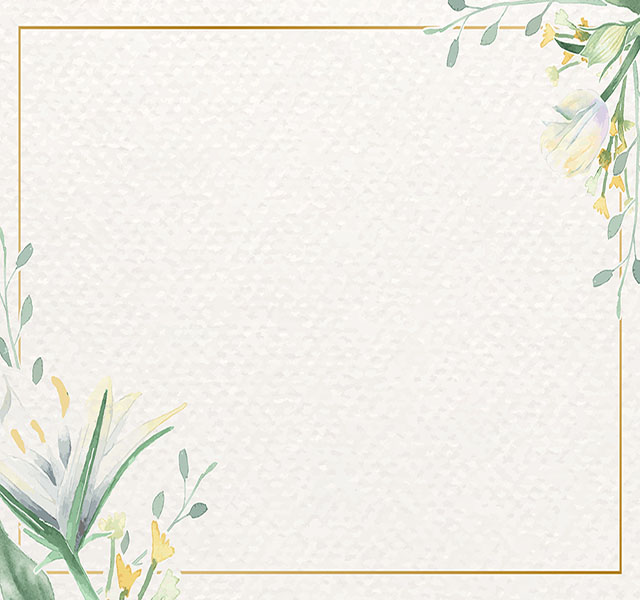
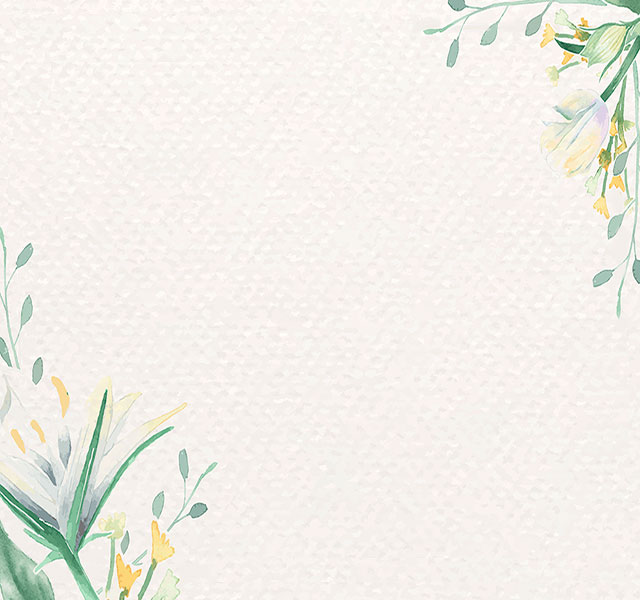
.

diff --git a/index.htm b/index.htm
@@ -31,31 +31,31 @@
 </head>
 <body>
 
-  <div class="container">
-    <div class="child">
+<!-- 첫화면 섹션-->
+<div class="container">
+  <div class="child">
 
-      <div class="my_bg sm:text-center" style="overflow : hidden;">
-        <section class="scroll-section borderimg2" id="section2" style="height : 100vh;"> 
-          <div class="mx-auto" style="margin: 0 auto;"> 
-            
-              <p class="great-vibes-regular" style="font-size: 60px;  color: rgba(234, 240, 246, 0.8); margin-top: -80%; text-align: center; line-height: 120%;">We're <br />getting married </p>
-            <div class="top_main">
-              정진욱 ❤ 구지선
+    <div class="my_bg sm:text-center" style="overflow : hidden;">
+      <section class="scroll-section" id="section2" style="height : 100vh;"> 
+        <div class="mx-auto" style="margin: 0 auto;"> 
+          
+            <p class="great-vibes-regular" style="font-size: 60px;  color: rgba(234, 240, 246, 0.8); margin-top: -80%; text-align: center; line-height: 120%;">
+              We're <br />getting married </p>
+              <div class="top_main">
+                정진욱 ❤ 구지선
               </div>
               <div class="mx-auto top_sub" style="background-color: rgba(116, 117, 118, 0.3); padding: 20px; border-radius: 21px; ">
                 2024. 09. 01 (일) 11:00 AM<br />
                 서울대학교 호암교수회관
               </div>
-          </section>
-      </div>
-
-
-
-
+        </section>
     </div>
+
   </div>
+</div>
+<!-- 첫화면 섹션-->
 
-
+<!-- 시 섹션 -->
 <div class="container">
   <div class="child" style="background-image: url(./img/flowerbg.jpg); background-size: cover; background-repeat: no-repeat;">  
     <section class="scroll-section" id="section2" style="height : 60vh;"> 
@@ -80,93 +80,97 @@
   </div>
 </div>
 
-<div style="background-color:rgba(217, 217, 217, 0.532); padding-top: 50px; padding-bottom: 100px;">
-  <section class="scroll-section" id="section7"> 
-
-<div class="sm:text-center heading_title" style="line-height: 200%; ">
-  <div class="flower1" style="height : 12vh;padding-bottom: 20px;""></div>
-  <span style="padding-top: 20px;">서로를 알아보고 함께 걸어가기로 약속한<br /> 
-        저희 두 사람의 시작을 축복해주시면<br />
-         더할 나위 없이 감사하겠습니다.</span>
-</div>
-</section>
-<br />
-
-<br />
-<section class="scroll-section" id="section6"> 
-<div class="sm:text-center" style="text-align:center; font-size: 13px; letter-spacing: 6px; color: rgba(159, 159, 159, 0.8);">
-  <span style="font-size: 20px; color: #1a1717; font-family: Nanum Myeongjo; font-weight: 1000;">정염남·서정자</span> 의 장남 <span style="font-size: 20px; color: #000; font-family: Nanum Myeongjo; font-weight: 1000;">진욱</span><br />
-  <span style="font-size: 20px; color: #000; font-family: Nanum Myeongjo; font-weight: 1000;">구태주·김정해</span> 의 장녀	<span style="font-size: 20px; color: #000; font-family: Nanum Myeongjo; font-weight: 1000;">지선</span>
-  </div>
-</section>
-</div>
-
-  <div class="sm:text-center heading_title">
+<!-- 인삿말 섹션-->
+<div class="container">
+  <div class="child">
+    <div style="background-color:rgba(217, 217, 217, 0.532); padding-top: 50px; padding-bottom: 100px;">
+      <section class="scroll-section" id="section7"> 
     
-  </div><br />
-  <section class="scroll-section" id="section5"> 
-  <div class="container">
-    <div class="child">
-  <div class="calendar" style="max-width: 640px; height : 60vh; overflow : hidden;"></div>
+        <div class="sm:text-center heading_title" style="line-height: 200%; ">
+          <div class="flower1" style="height : 12vh;padding-bottom: 20px;"">
+          </div>
+          <span style="padding-top: 20px;">
+            서로를 알아보고 함께 걸어가기로 약속한<br /> 
+                저희 두 사람의 시작을 축복해주시면<br />
+                더할 나위 없이 감사하겠습니다.
+          </span>
+        </div>
+      </section>
+    <br />
+    <br />
+      <section class="scroll-section" id="section6"> 
+        <div class="sm:text-center" style="text-align:center; font-size: 13px; letter-spacing: 6px; color: rgba(159, 159, 159, 0.8);">
+          <span style="font-size: 20px; color: #1a1717; font-family: Nanum Myeongjo; font-weight: 1000;">정염남·서정자</span> 의 장남 <span style="font-size: 20px; color: #000; font-family: Nanum Myeongjo; font-weight: 1000;">진욱</span>
+          <br />
+          <span style="font-size: 20px; color: #000; font-family: Nanum Myeongjo; font-weight: 1000;">구태주·김정해</span> 의 장녀	<span style="font-size: 20px; color: #000; font-family: Nanum Myeongjo; font-weight: 1000;">지선</span>
+        </div>
+      </section>
+    </div>
   </div>
+</div>
+
+
+<!-- 달력 섹션 -->
+<section class="scroll-section" id="section5"> 
+  <div class="container">
+    <div class="child" style="margin-top: 100px; text-align: center; ">
+      
+      <div class="calendar" style="max-width: 640px; height : 60vh; overflow : hidden;">
+        <div class="top_sub" style="background-color: rgba(116, 117, 118, 0.6); position: absolute; left: 60px; top: 190px;padding: 10px; border-radius:30px; ">
+          2024. 09. 01 (일)<br /> 오전 11:00 AM
+        </div>
+      </div>
+    </div>
   </div>
 </section>
-  <div style="background-color:rgba(255, 255, 255, 0.532); padding-top: 50px; padding-bottom: 50px;">
-  <div class="flower2" style="height : 12vh;""></div>
-<div class="sm:text-center heading_title">
-  오시는 길
-</div><br />
-<div class="sm:text-center object-top">
 
-  <section class="scroll-section" id="section4"> 
+<!-- 지도 섹션-->
+<div class="container">
+  <div class="child">
+    <div style="background-color:rgba(255, 255, 255, 0.532); padding-top: 50px; padding-bottom: 50px;">
+      <div class="flower2" style="height : 12vh;""></div>
+    <div class="sm:text-center heading_title">
+      오시는 길
+    </div><br />
+    
+    </div>
 
-  <!-- * 카카오맵 - 지도퍼가기 -->
-  <!-- 1. 지도 노드 -->
-  <div style="background-color: #fff; border-radius: 20px;"><div id="daumRoughmapContainer1710316010775" class="mx-auto root_daum_roughmap root_daum_roughmap_landing" style="width:100%; padding-top: 20px; border-radius: 20px;"></div>
+    <!-- * 카카오맵 - 지도퍼가기 -->
+    <!-- 1. 지도 노드 -->
+    <div style="background-color: #fff; border-radius: 20px;">
+      <div id="daumRoughmapContainer1710316010775" class="mx-auto root_daum_roughmap root_daum_roughmap_landing" style="width:100%; padding-top: 20px; border-radius: 20px;">
+      </div>
+    </div>
+    <!--
+      2. 설치 스크립트
+      * 지도 퍼가기 서비스를 2개 이상 넣을 경우, 설치 스크립트는 하나만 삽입합니다.
+    -->
+    <script charset="UTF-8" class="daum_roughmap_loader_script" src="https://ssl.daumcdn.net/dmaps/map_js_init/roughmapLoader.js"></script>
+
+    <!-- 3. 실행 스크립트 -->
+    <script charset="UTF-8">
+      new daum.roughmap.Lander({
+        "timestamp" : "1710316010775",
+        "key" : "2ihgq",
+        "mapWidth" : "100%",
+        "mapHeight" : "460px",
+    
+      }).render();
+    </script>
+  </div>
 </div>
-  <!--
-    2. 설치 스크립트
-    * 지도 퍼가기 서비스를 2개 이상 넣을 경우, 설치 스크립트는 하나만 삽입합니다.
-  -->
-  <script charset="UTF-8" class="daum_roughmap_loader_script" src="https://ssl.daumcdn.net/dmaps/map_js_init/roughmapLoader.js"></script>
 
-  <!-- 3. 실행 스크립트 -->
-  <script charset="UTF-8">
-    new daum.roughmap.Lander({
-      "timestamp" : "1710316010775",
-      "key" : "2ihgq",
-      "mapWidth" : "100%",
+
+
   
-    }).render();
-  </script>
 
-
-
-  </section> 
-</div>
-
-<div style="margin-top: 50px; line-height: 30px; padding-left: 20px; padding-right: 20px">
-<span style="font-weight: 800; padding-left: 10px; font-size: 18px;" >지하철</span> <br />
-<span style="font-weight: 400;" >
-2호선 낙성대역(4번출구) → GS주유소 → [장블랑제리]제과점 앞에서 마을버스 [관악-02번] 승차 → 호암교수회관 하차(5분거리) </span>
-<br /><br />
-<span style="font-weight: 800;  padding-left: 20px; padding-right: 20px; font-size: 18px;">버스</span> <br />
-461, 641, 643, 5413, 5424, 5520, 5524, 5528 이용 낙성대하차 → GS주유소 → [장블랑제리]제과점 앞에서 마을버스 02번 승차 → 호암교수회관 하차(5분거리)
-<br /><br />
-<span style="font-weight: 800;  padding-left: 20px; padding-right: 20px; font-size: 18px;">승용차</span> <br />
-4남부순환도로에서 낙성대(이정표:서울대후문) 방면으로 좌.우회전 하여 1.5km 직진하여 좌측 위치
-내비게이션 이용시 입력주소 : 서울시 관악구 관악로 1
-<br /><br />
-<span style="font-weight: 800;  padding-left: 20px; padding-right: 20px; font-size: 18px;">지방에서 오시는 분</span> <br />
-경부고속도로를 이용해서 서초IC에서 사당방면으로 P턴 → 남부순환로 이용하여 낙성대(이정표: 서울대 후문) 방면으로 좌회전하여 1.5km 직진하여 좌측 위치
-</div>
-</div>
-
-<div> FAQ
+<div class="container">
+  <div class="child">
+    FAQ
 1. 언제 만났나요?
 2. 무엇이 서로 마음에 들었나요?
 3. 
-
+  </div>
 </div>
 
 <script src="./js/script.js"></script>

diff --git a/css/style.css b/css/style.css
@@ -56,8 +56,9 @@ body, html {
 }
 
 .my_bg {
-  background-image: url("../img/bg3.png");    
+  background: url("../img/bg3.png") no-repeat center;    
   background-size: cover;
+  height: 100vh;
   color: #ffffff;
   text-shadow: 3px 4px 5px #000000;
   position: relative;  
@@ -121,8 +122,8 @@ body, html {
 }
 
 .borderimg2 {
-  border: 10px solid transparent;
-  padding: 15px;
+  border: 20px solid transparent;
+  padding: 0px;
   border-image: url('../img/border.png') 20% round;
 }
 
@@ -133,6 +134,7 @@ body, html {
   color: #ffffff;
   text-shadow: 3px 4px 5px #000000;
   position: relative;  
+  
 
 }
 
